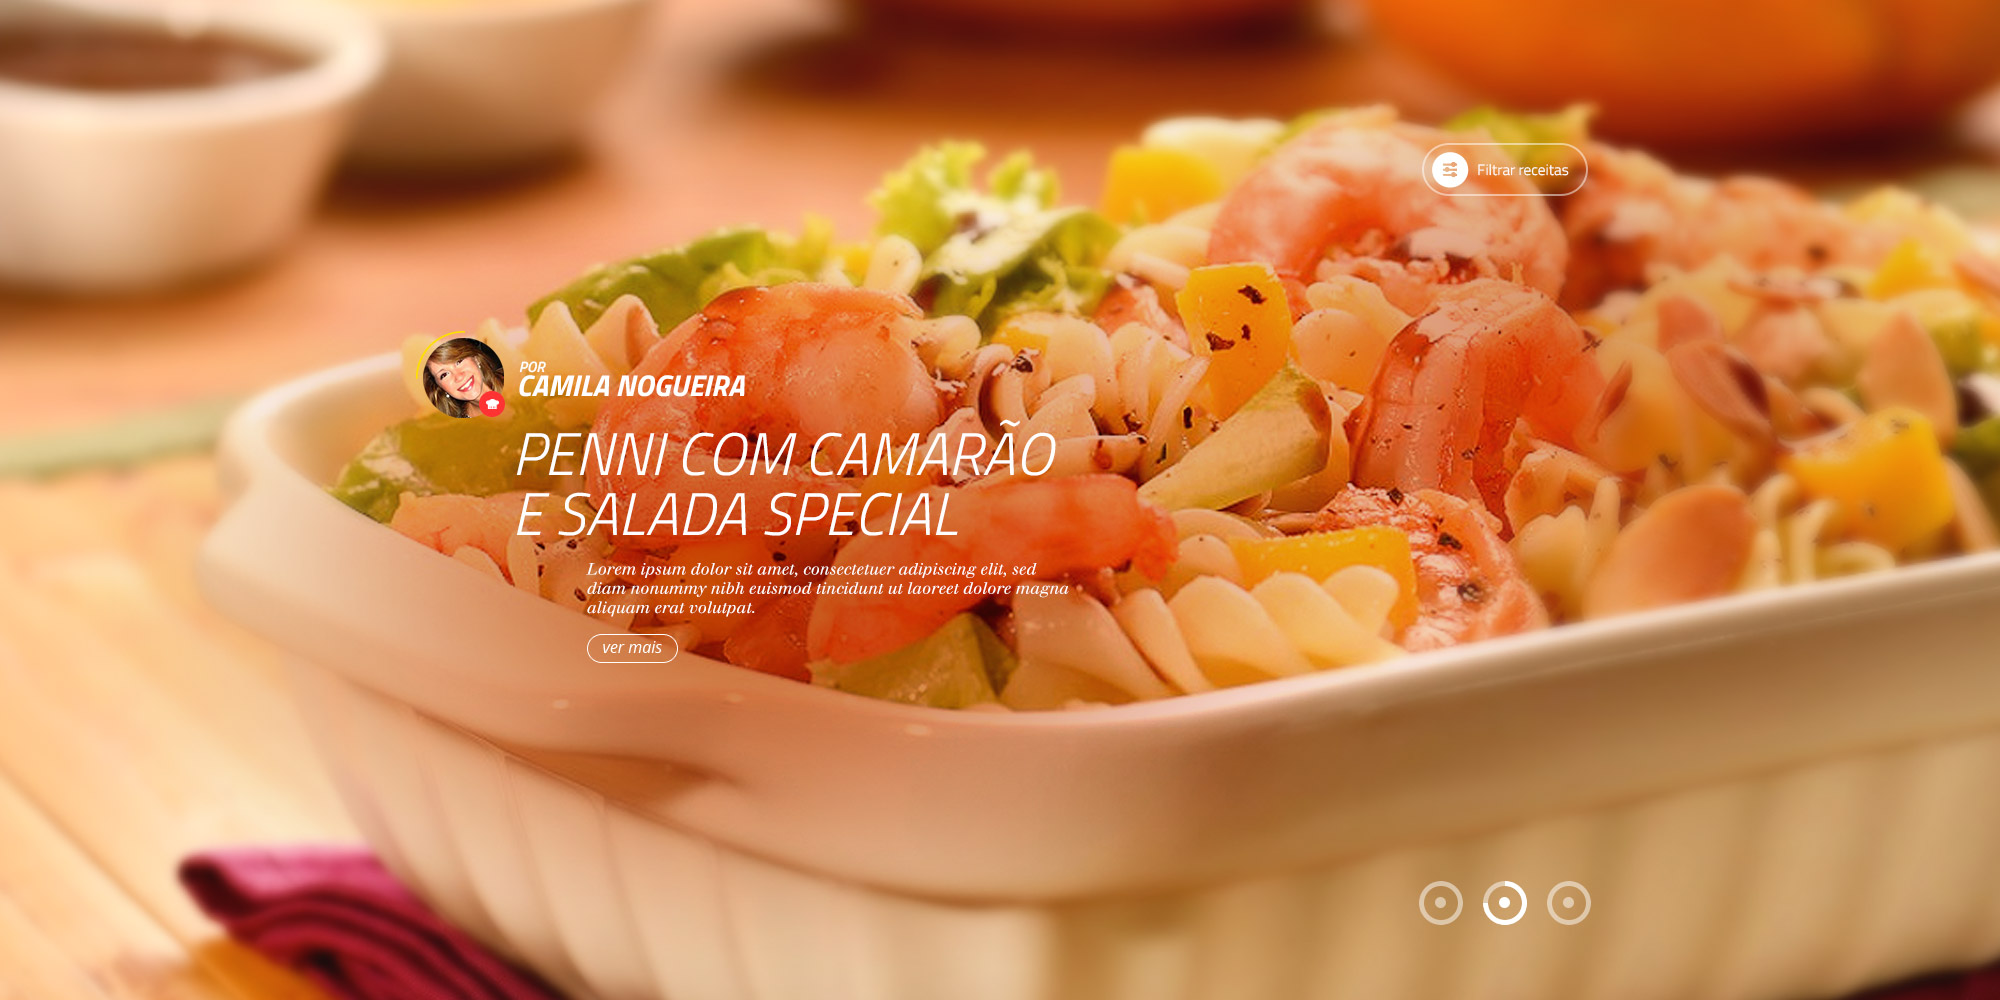
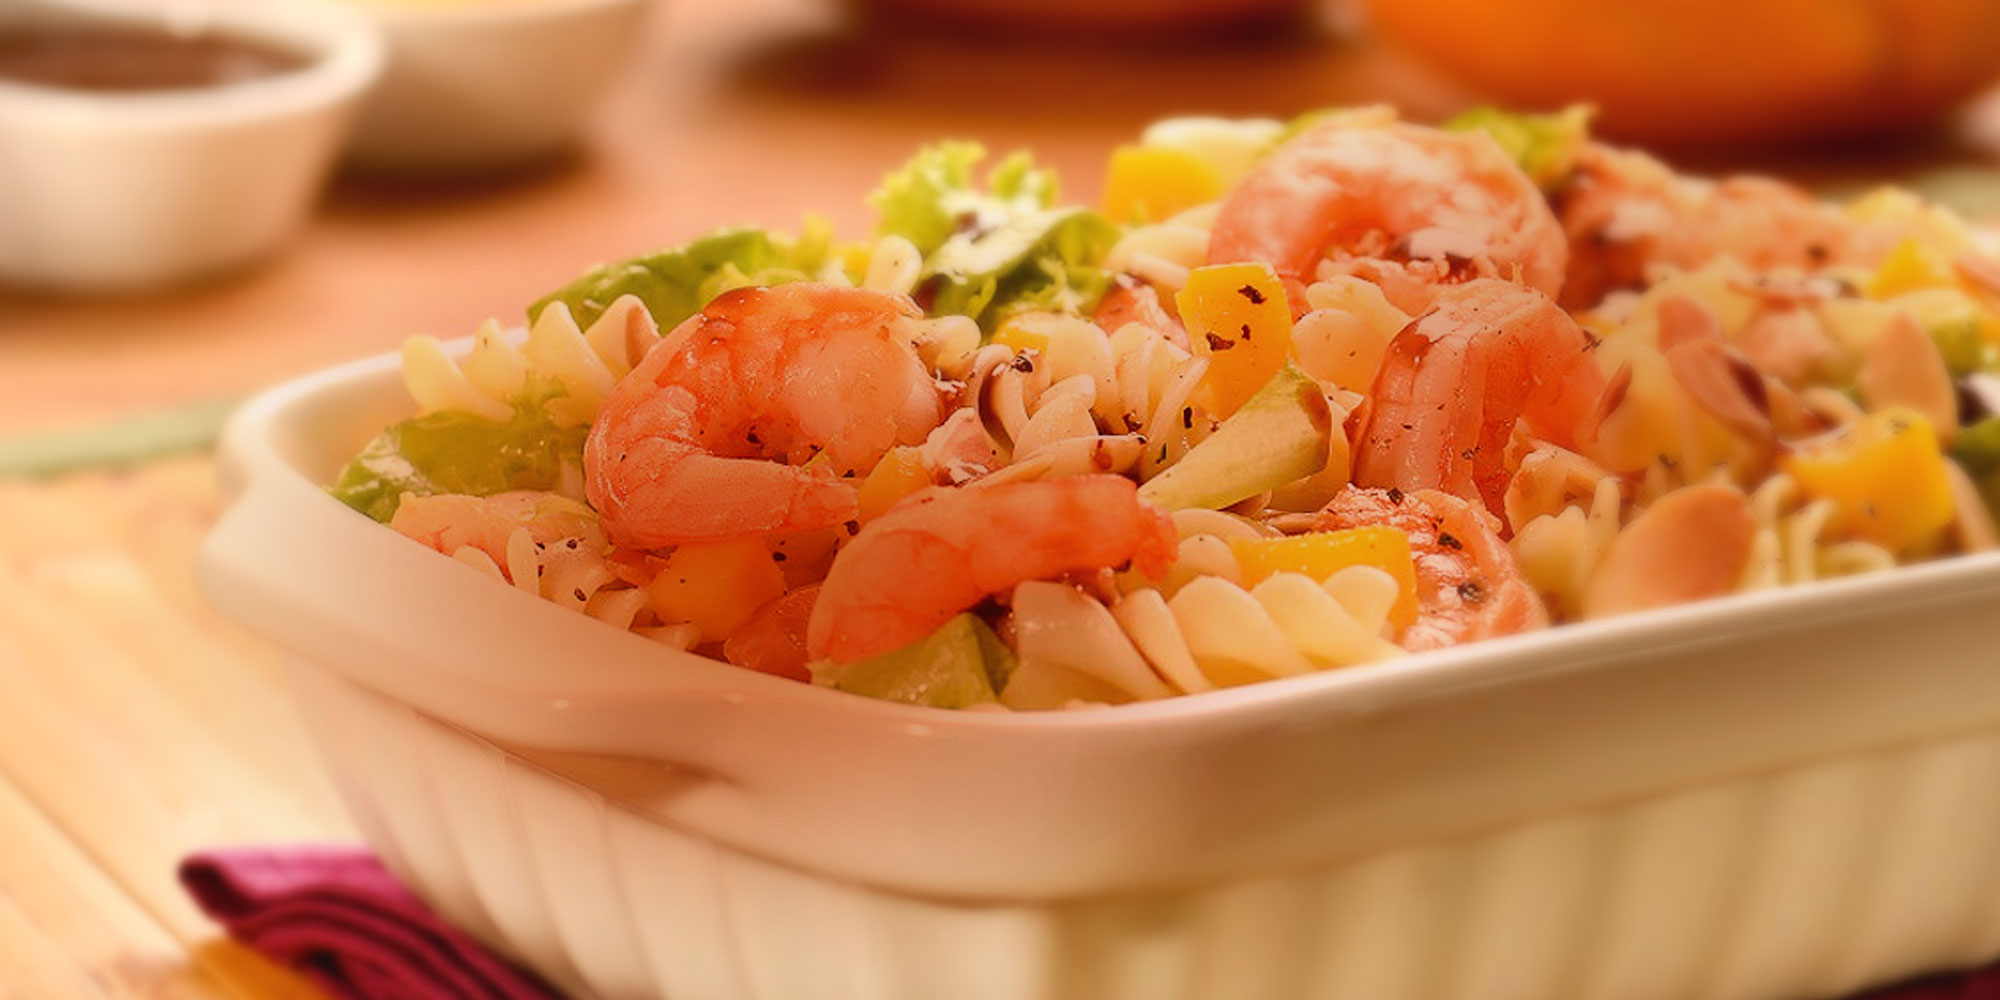
ajustes

diff --git a/index.html b/index.html
@@ -19,6 +19,8 @@
         <!--[if lt IE 8]>
             <p class="browsehappy">Você está usando um navegador (browser) <strong>desatualizado</strong>. Por favor <a href="http://browsehappy.com/">atualize seu navegador</a> para uma melhor experiência.</p>
         <![endif]-->
+
+        <p id="msg-landscape"><img src="img/msg01.gif" alt="gire seu dispositivo" /><br />Gire seu dispositivo.</p>
 	
 
 		<h1 class="hidden">Vitarella</h1>
@@ -120,7 +122,27 @@
         	<div class="carrossel">
         		<ul>
         			<li>
-        				<img src="img/produto-1-thumb.jpg" height="160" width="141" alt="">
+        				<img src="img/produto-1-thumb.jpg" height="170" width="189" alt="">
+        				<p>Biscoitos Salgados</p>
+        				<span class="linha"></span>
+        			</li>
+        			<li>
+        				<img src="img/produto-2-thumb.jpg" height="170" width="148" alt="">
+        				<p>Cream Crackers <br>Crocks</p>
+        				<span class="linha"></span>
+        			</li>
+        			<li>
+        				<img src="img/produto-3-thumb.jpg" height="170" width="189" alt="">
+        				<p>Wafers</p>
+        				<span class="linha"></span>
+        			</li>
+        			<li>
+        				<img src="img/produto-4-thumb.jpg" height="170" width="147" alt="">
+        				<p>Maria e Maizena</p>
+        				<span class="linha"></span>
+        			</li>
+        			<li>
+        				<img src="img/produto-5-thumb.jpg" height="170" width="141" alt="">
         				<p>Cream Cracker</p>
         				<span class="linha"></span>
         			</li>
@@ -136,46 +158,57 @@
 					<div class="c-img">
 						<ul>
 							<li style="background-image: url(img/receita-1.jpg)" class="ativo"><!-- <img src="img/banner-1.jpg" alt="banner"> --></li>
-							<li style="background-image: url(img/banner-2.jpg)"></li>
-							<li style="background-image: url(img/banner-1.jpg)"></li>
+							<li style="background-image: url(img/receita-1.jpg)"></li>
+							<li style="background-image: url(img/receita-1.jpg)"></li>
 						</ul>
 					</div>
 
-					<div class="content">
 
-						<div class="c-link c-link-circulo">
-							<ul>
-							<li>
-								<a href="#">
-									<svg height="46" width="46">
-										<circle cx="23" cy="23" r="20" class="border-opacity" />
-										<circle cx="23" cy="23" r="20" class="border" />
-										<circle cx="23" cy="23" r="6" fill="white" />
-									</svg> 
-								</a>
+					<div class="c-txt">
+						<div class="content">
+						<ul>
+							<li class="ativo">
+								<img src="img/receita-icon-1.png" height="87" width="89" alt="icone">
+								<p class="autor">por <br><span>Camila Nogueira</span></p>
+								<h3>Penne com camarão <br> e salada especial</h3>
+								<p>Lorem ipsum dolor sit amet, consectetur adipisicing elit. Dolorum nisi eveniet maiores laudantium error, repellendus ea dicta nesciunt.</p>
+								<a href="#" class="sprite-1 ver-mais indent">ver mais</a>
 							</li>
-							<li>
-								<a href="#">
-									<svg height="46" width="46">
-										<circle cx="23" cy="23" r="20" class="border-opacity" />
-										<circle cx="23" cy="23" r="20" class="border" />
-										<circle cx="23" cy="23" r="6" fill="white" />
-									</svg> 
-								</a>
-							</li>
-							<li>
-								<a href="#">
-									<svg height="46" width="46">
-										<circle cx="23" cy="23" r="20" class="border-opacity" />
-										<circle cx="23" cy="23" r="20" class="border" />
-										<circle cx="23" cy="23" r="6" fill="white" />
-									</svg> 
-								</a>
-							</li>
-							</ul>
+						</ul>
 						</div>
-
 					</div>
+					<div class="c-link c-link-circulo">
+						<ul>
+						<li>
+							<a href="#">
+								<svg height="46" width="46">
+									<circle cx="23" cy="23" r="20" class="border-opacity" />
+									<circle cx="23" cy="23" r="20" class="border" />
+									<circle cx="23" cy="23" r="6" fill="white" />
+								</svg> 
+							</a>
+						</li>
+						<li>
+							<a href="#">
+								<svg height="46" width="46">
+									<circle cx="23" cy="23" r="20" class="border-opacity" />
+									<circle cx="23" cy="23" r="20" class="border" />
+									<circle cx="23" cy="23" r="6" fill="white" />
+								</svg> 
+							</a>
+						</li>
+						<li>
+							<a href="#">
+								<svg height="46" width="46">
+									<circle cx="23" cy="23" r="20" class="border-opacity" />
+									<circle cx="23" cy="23" r="20" class="border" />
+									<circle cx="23" cy="23" r="6" fill="white" />
+								</svg> 
+							</a>
+						</li>
+						</ul>
+					</div>
+
 				</div>
 
         	</div>

diff --git a/js/main.js b/js/main.js
@@ -3,7 +3,6 @@ $( function(){
 
 	/* banner topo */
     $('#banner').carrossel1();
-    var receitaCarrossel = false;    
 
 
     /* banner aplicativos */
@@ -15,11 +14,10 @@ $( function(){
 	$(".slide").mousewheel(function (event, delta) {
 
         // ativa carrossel Receitas
-        if (receitaCarrossel === false && $(this).hasClass('produtos') ){
+        /*if (receitaCarrossel === false && $(this).hasClass('produtos') ){
             $('#banner-receita').carrossel1({'auto': true});
-
-            receitaCarrossel = true;
-        }
+			receitaCarrossel = true;
+        }*/
 
         // se estiver na tela Aplicativos
 		if ( delta < 0 && $(this).hasClass('aplicativos') ){
@@ -104,6 +102,27 @@ $( function(){
 
 
 
+/*
+	ativa o banner Receita
+ */
+var receitaCarrossel = false;
+function receitaCarrosselInit(){
+	if (!receitaCarrossel){
+		var top = window.scrollY;
+
+		if ( top >= $("#cena-receita").offset().top ){
+
+			$('#banner-receita').carrossel1({'auto': true});
+			receitaCarrossel = true;
+		}
+	}
+}
+$(window).bind('scroll', receitaCarrosselInit);
+$(window).bind('load', receitaCarrosselInit);
+
+
+
+
 
 /*
     carrossel tipo 1
@@ -160,7 +179,7 @@ $( function(){
                     index = 0;
                     // como ja passou por todos automaticamente...
                     clearInterval(intervalo);
-                     $(this).find('circle.border').css({'animation-duration': '5s', '-webkit-animation-duration': '5s'});
+                    self.find('.c-link a').find('circle.border').css({'animation-duration': '5s', '-webkit-animation-duration': '5s'});
                 }
             }
 
@@ -363,7 +382,7 @@ $( function(){
 /*
     bg parallax
 */
-(function($){
+/*(function($){
 
     $.fn.parallaxBg = function(options){
 
@@ -402,4 +421,4 @@ $( function(){
         return this;
     };
 
-}(jQuery));
+}(jQuery));*/

diff --git a/css/main.less b/css/main.less
@@ -126,6 +126,8 @@ header, section, footer{
 .font2{ font-family: 'TitilliumWeb-Light'; }
 .font3{ font-family: 'TitilliumWeb-LightItalic'; }
 
+#msg-landscape{display:none}
+
 /* ==========================================================================
    Home
    ========================================================================== */
@@ -365,6 +367,45 @@ header{
 		position: absolute;
 		top: 0;
 		overflow: hidden;
+
+		.c-txt{			
+			position: absolute;
+			z-index: 3;
+			top: 20%;
+			left: 20%;
+			width: 100%;
+			color: #fff;
+			img{
+				left: -110px;
+			    position: relative;
+			    top: 70px;
+			}
+			p.autor{
+				.font3;
+				font-size: 1.4em;
+				line-height: 1.4em;
+				text-transform: uppercase;
+				margin-left: 0;
+				span{
+					.font3;
+					font-size: 2em;
+				}
+			}
+			h3{
+				.font3;
+				font-size: 5em;
+				text-transform: uppercase;
+				margin: 30px 0 15px;
+				line-height: 1em;
+			}
+			p{
+				font: 1.6em Justus;
+				width: 400px;
+				margin-bottom: 15px;
+				margin-left: 70px;
+			}
+			a{ margin-left: 70px; }
+		}
 		
 		.c-img, .c-img ul, .c-img li{
 			display: block;
@@ -626,10 +667,18 @@ footer{
 
 	.servicos .banner .box .ver-todos-2, .noticias .banner .box .ver-todos-2{left: 5%;}
 
-	header, .receitas, .produtos{height: 650px;}
+	/*header, .receitas, .produtos{height: 650px;}*/
 
 }
 
+@media only all and (orientation: portrait) {
+	#msg-landscape{display:block; text-align:center; font:14px Arial, Helvetica, sans-serif; color:#000; margin-top:10%}
+	header, section, footer{display:none}
+}
+
+@media only all and (orientation: landscape) {
+	/*#msg-girar{display:none}*/
+}
 
 
 
